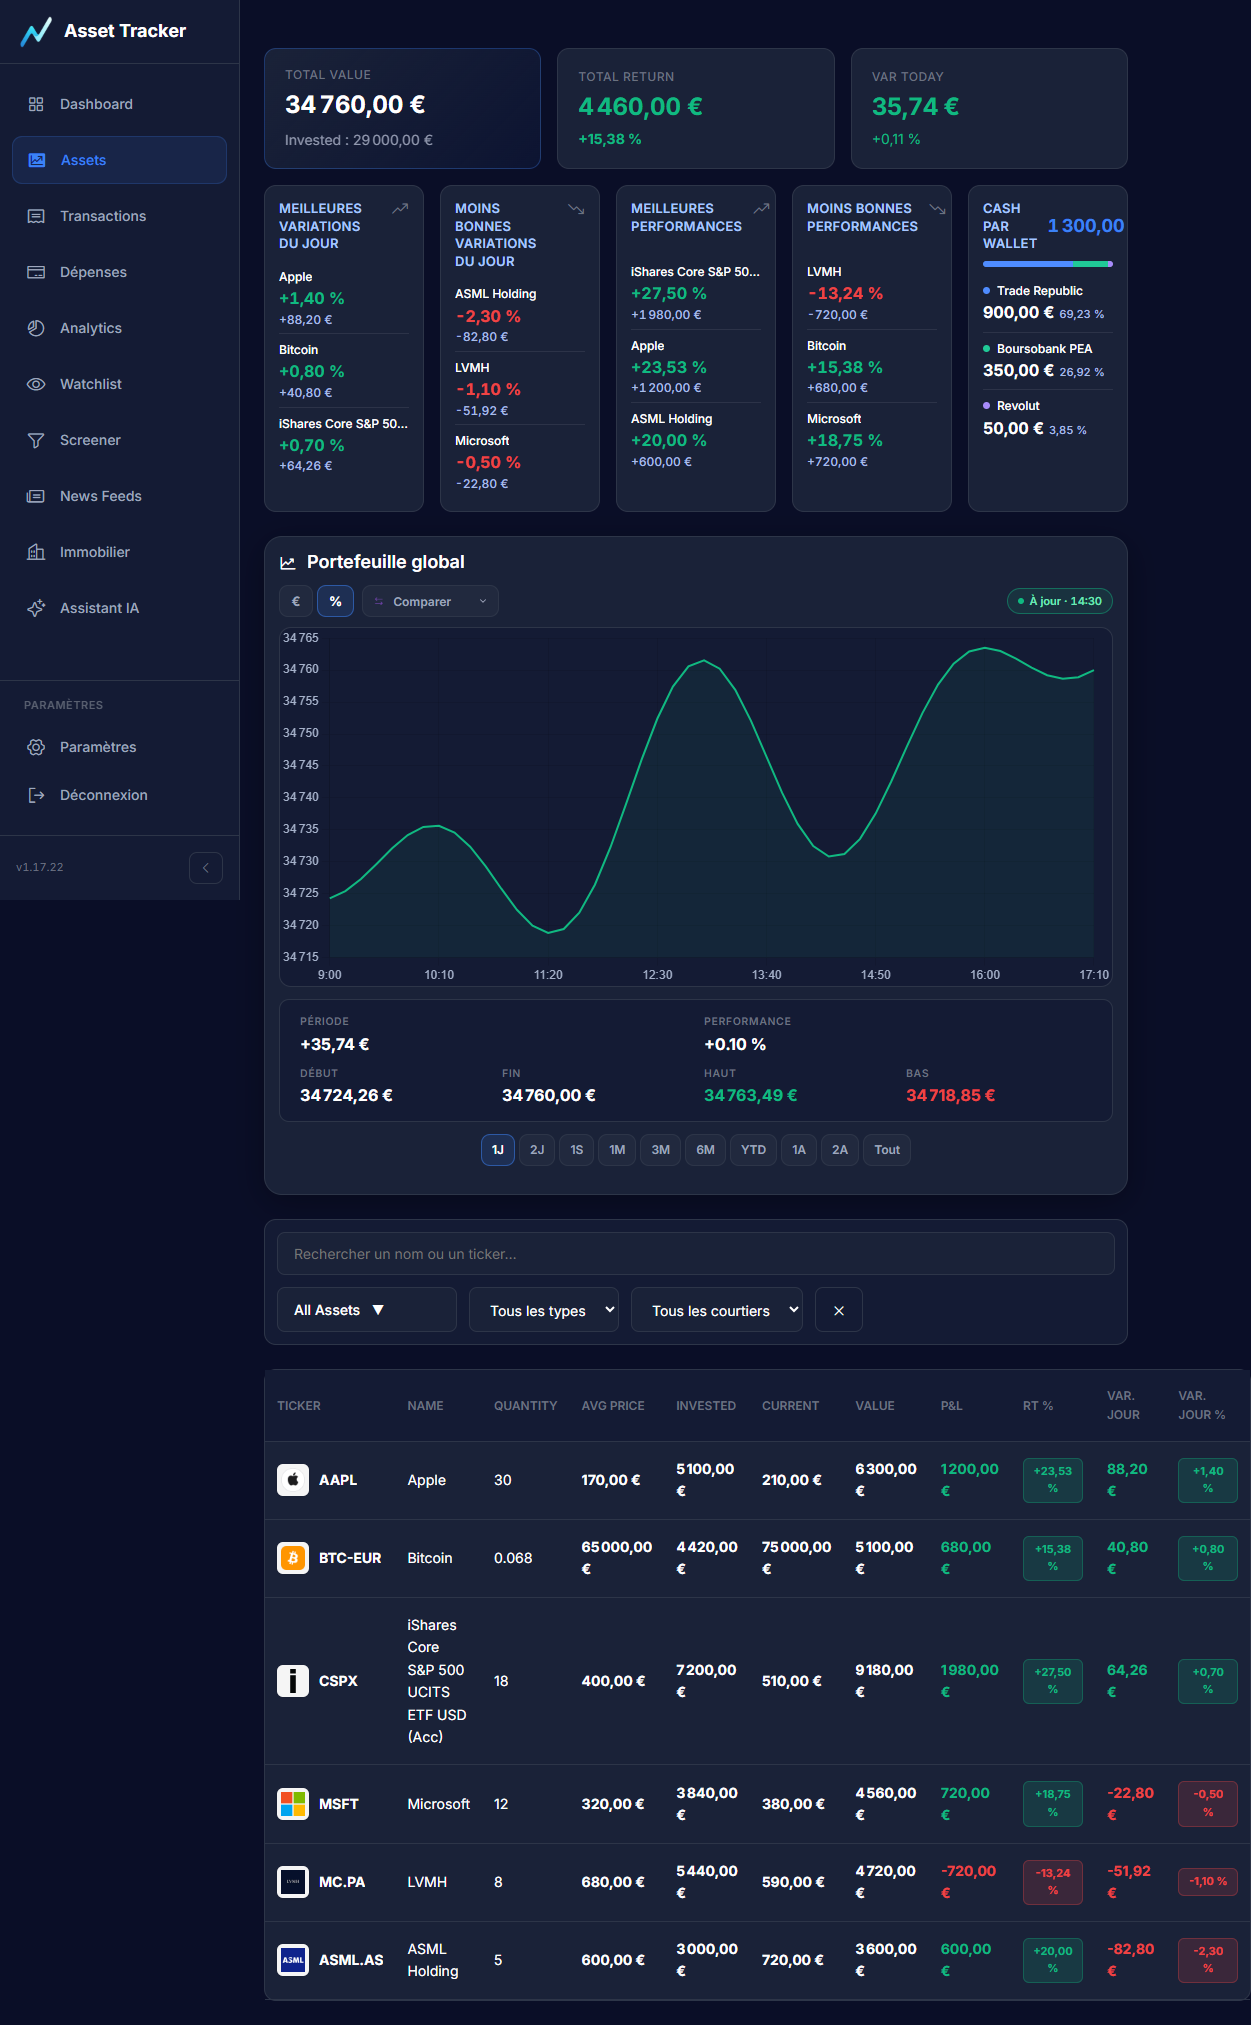
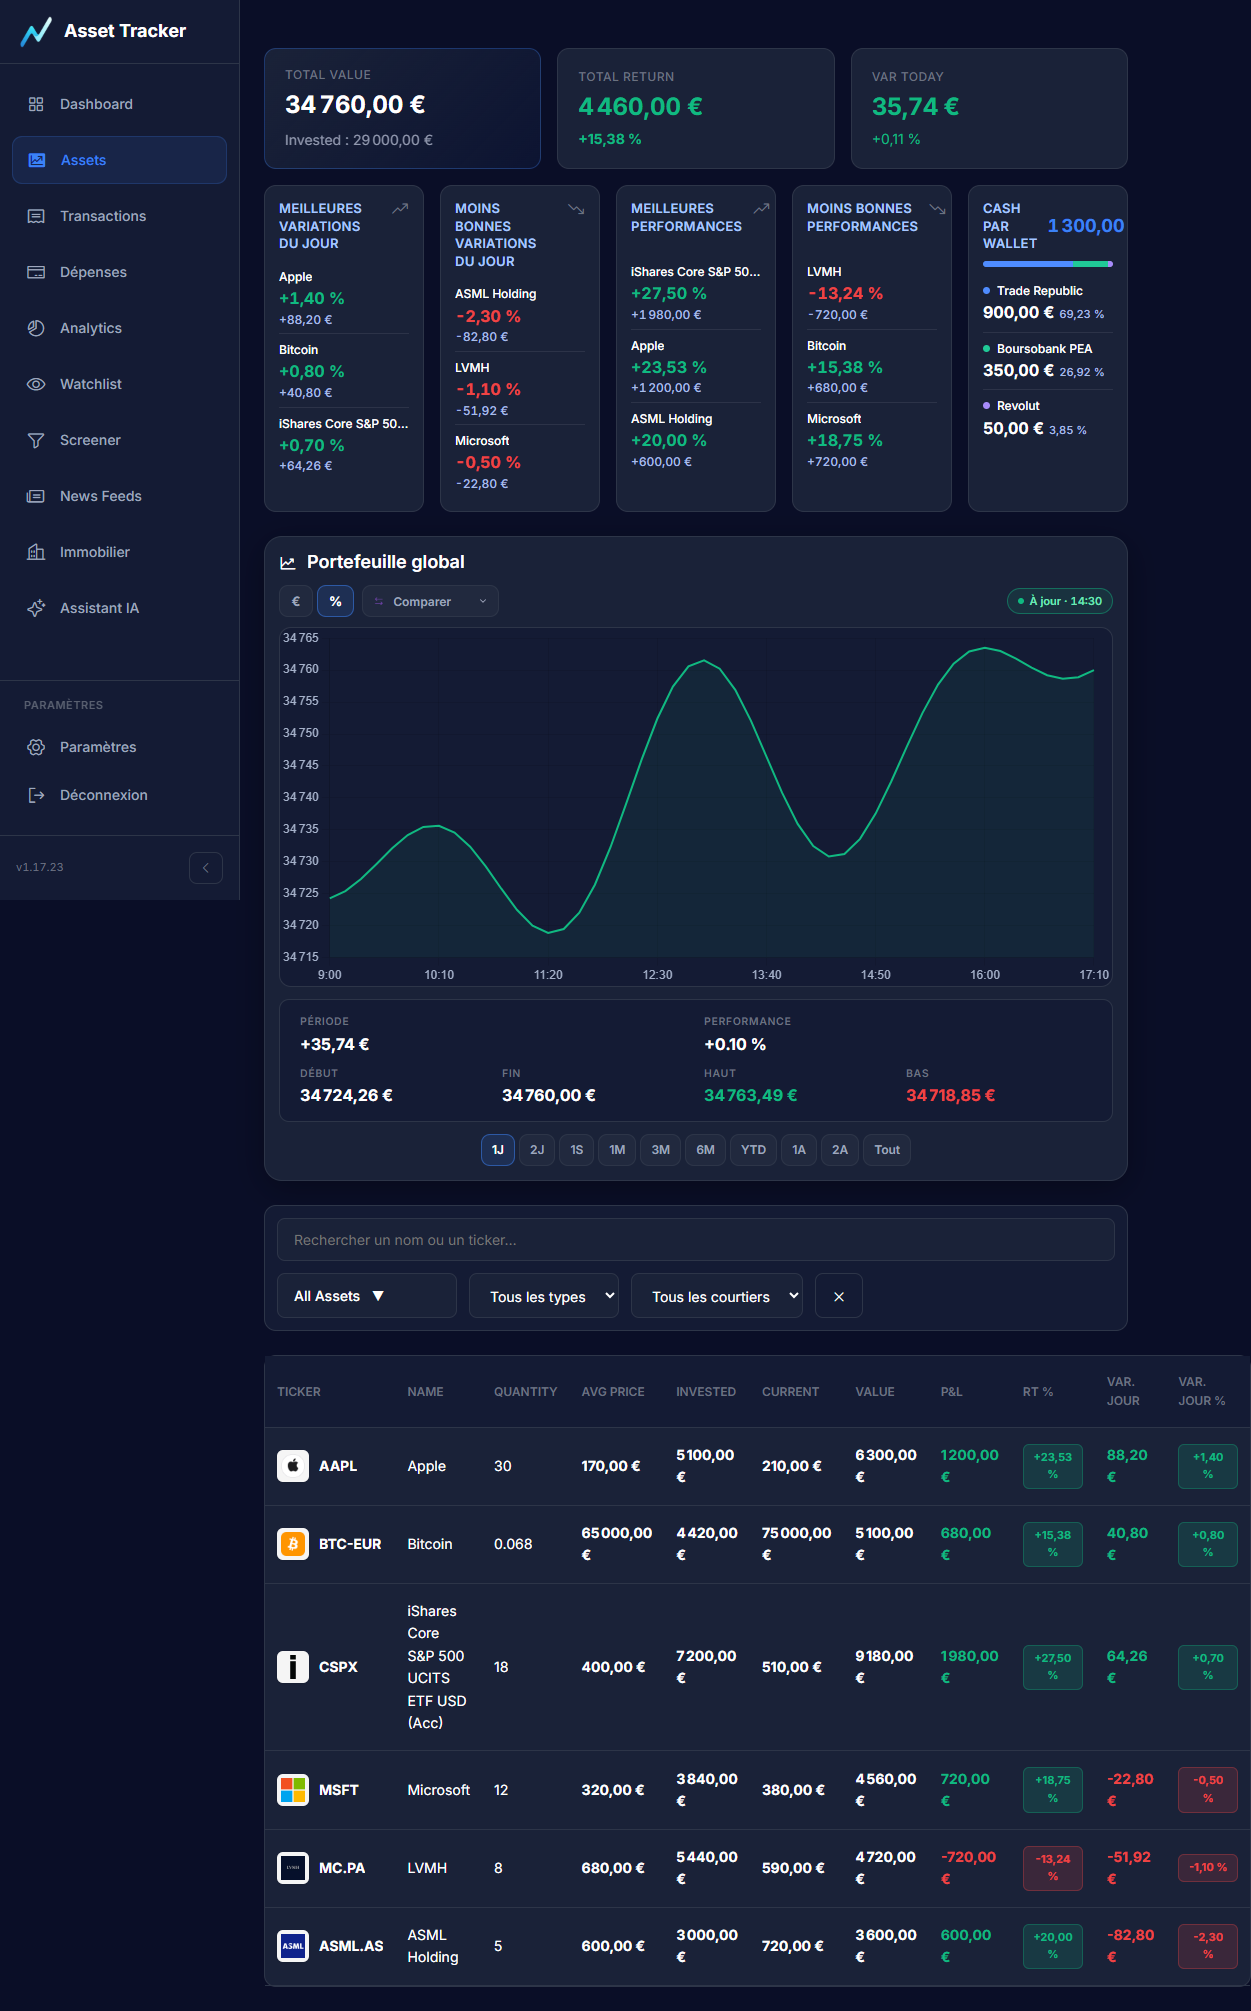
fix claude visuel chart 1

diff --git a/investments.html b/investments.html
@@ -17,7 +17,7 @@
     <link rel="stylesheet" href="css/investments.css?v=67">
     <link rel="stylesheet" href="css/investments-mobile.css?v=11">
     <link rel="stylesheet" href="css/investments-table-compact.css?v=7">
-    <link rel="stylesheet" href="css/chart-toolbar.css?v=8">
+    <link rel="stylesheet" href="css/chart-toolbar.css?v=9">
 
     <link rel="preconnect" href="https://fonts.googleapis.com">
     <link rel="preconnect" href="https://fonts.gstatic.com" crossorigin>

diff --git a/dashboard.html b/dashboard.html
@@ -16,7 +16,7 @@
     <link rel="stylesheet" href="css/components.css?v=4">
     <link rel="stylesheet" href="css/dashboard.css?v=103">
     <link rel="stylesheet" href="css/dashboard-mobile.css?v=7">
-    <link rel="stylesheet" href="css/chart-toolbar.css?v=8">
+    <link rel="stylesheet" href="css/chart-toolbar.css?v=9">
     <link rel="stylesheet" href="css/dashboard-premium.css?v=17">
 
     <link rel="preconnect" href="https://fonts.googleapis.com">

diff --git a/css/chart-toolbar.css b/css/chart-toolbar.css
@@ -447,6 +447,11 @@
     border-radius: 0;
 }
 
+/* Investments' card already has 14px of inner padding below the bar. */
+.historical-chart-container .chart-controls {
+    margin-bottom: 0;
+}
+
 @media (min-width: 769px) {
     :is(.dashboard-chart-section, .historical-chart-container) .chart-controls .period-btn {
         display: inline-flex;

diff --git a/RELEASES.md b/RELEASES.md
@@ -48,6 +48,7 @@ sont pas assimilés à de nouvelles fonctionnalités.
 | `1.17.21` | 2026-10-12 | fix codex style investments kpi 4 | — |
 | `1.17.22` | 2026-10-12 | fix claude style investments kpi 5 | — |
 | `1.17.23` | 2026-10-12 | fix claude visuel chart | — |
+| `1.17.24` | 2026-10-12 | fix claude visuel chart 1 | — |
 
 Les messages de commit pilotent les nouvelles versions. Les scripts de
 déploiement ajoutent désormais aussi chaque correctif à ce tableau avant les
